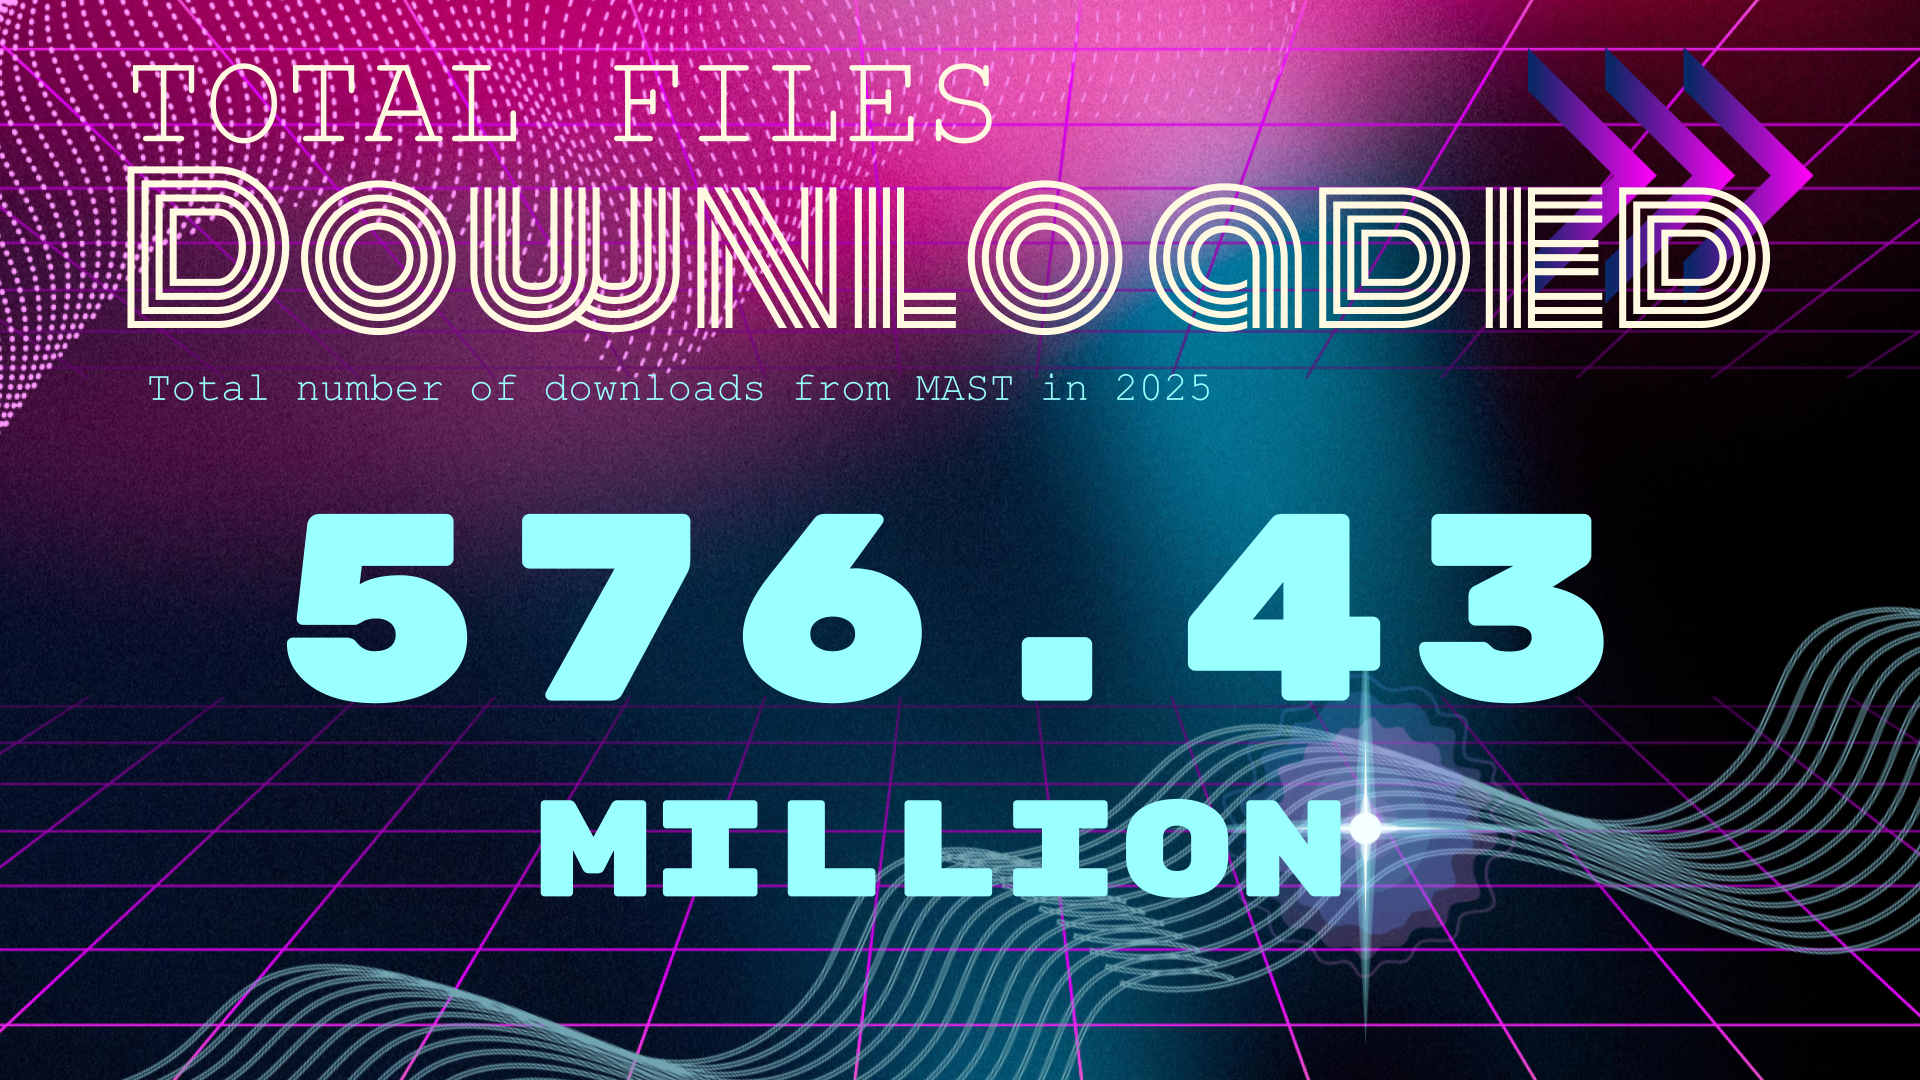
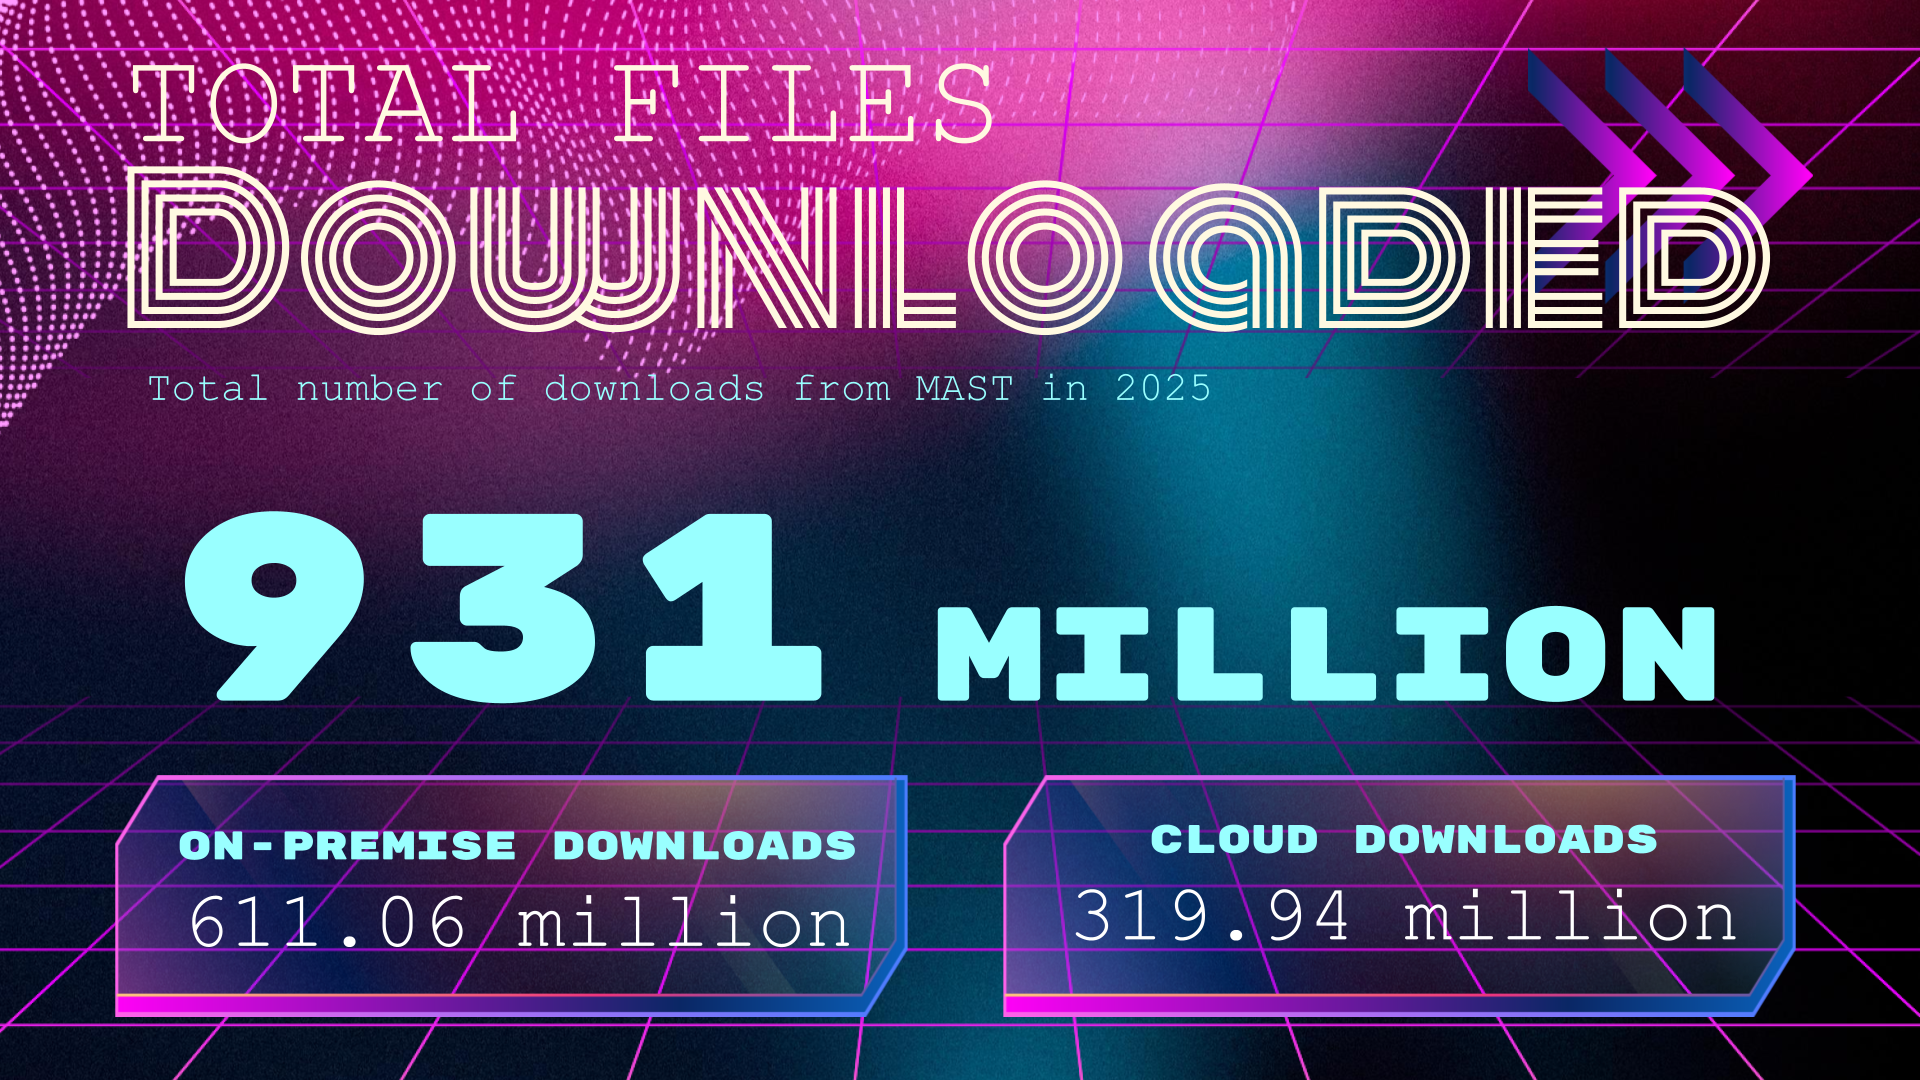
adding cloud downloads to stats

Changed region(s): [[0.0625, 0.4583, 1.0, 1.0]]

diff --git a/_posts/2025-12-18-mast-wrapped-2025.md b/_posts/2025-12-18-mast-wrapped-2025.md
@@ -53,9 +53,9 @@ HST and JWST are only 2 of the 23+ missions that MAST contains data from. One le
 # Chapter 2: Downloads
 
 ## Total Number of Data Downloads
-Where is all that data going? In 2025, over 576 million files were downloaded from MAST:
+Where is all that data going? In 2025, over 931 million files were downloaded from MAST:
 
-![Total files downloaded: 576.43 million](assets/img/posts/20251218/total_files_downloaded.png)
+![Total files downloaded: 931 million](assets/img/posts/20251218/total_files_downloaded.png)
 
 
 ## Number of Countries Reached
